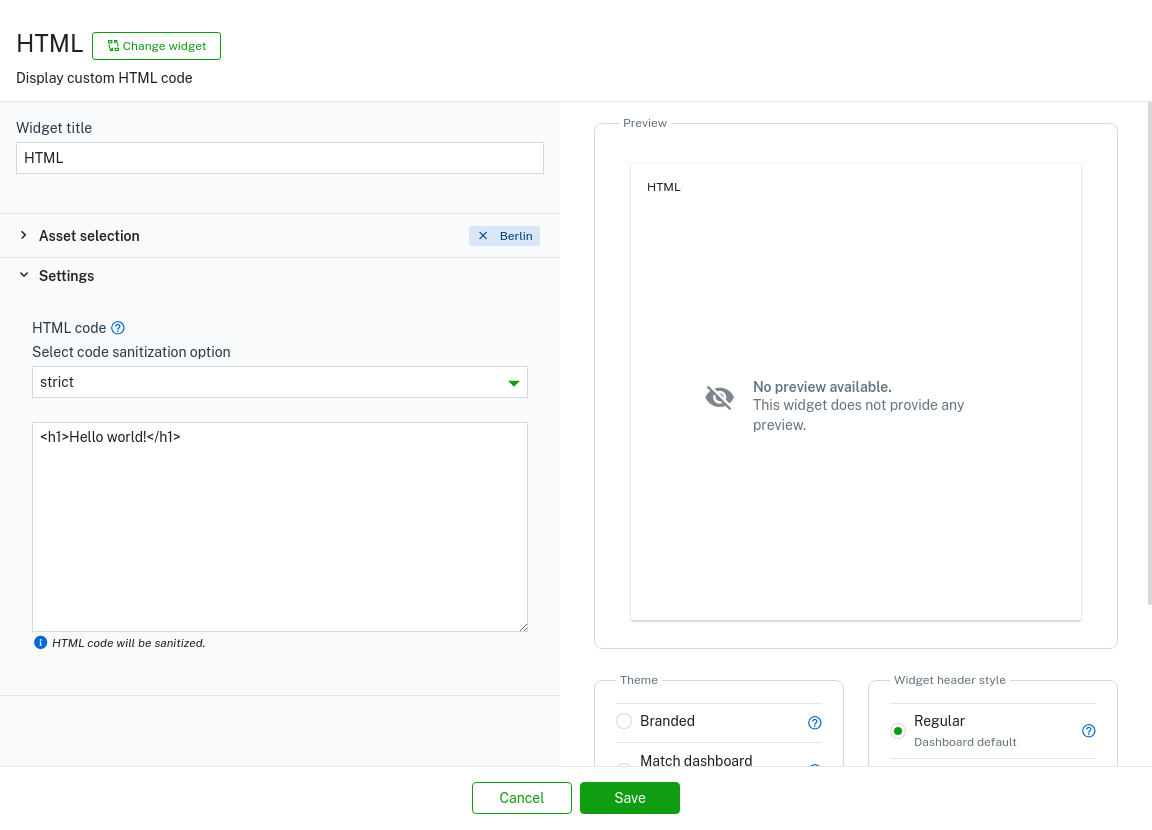
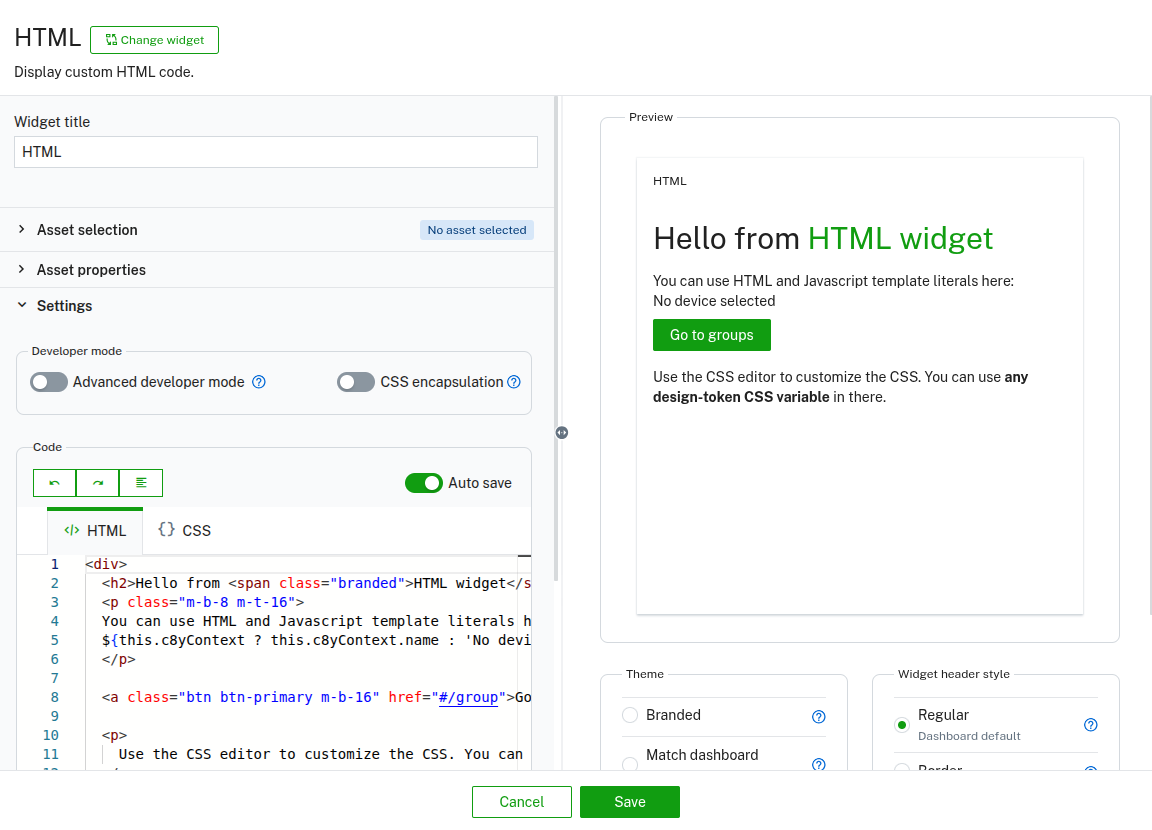
New HTML widget documentation update

diff --git a/content/cockpit/widgets-collection.md b/content/cockpit/widgets-collection.md
@@ -200,53 +200,43 @@ You must enable at least one data point in each section to create the "Info gaug
 
 ### HTML {#html}
 
-The "HTML" widget shows user-defined content. The content can be formatted using HTML.
+The "HTML" widget displays user-defined content that can be formatted using HTML and dynamically populated with data from the current device. Additionally, you can switch the widget into advanced mode, which allows you to build complex web components with JavaScript code.
 
 **Parameters to configure**
 
-* Target assets or devices: Select the objects for which optional HTML expressions are evaluated.
+* **Target assets or devices**: Select the objects for which optional HTML expressions are evaluated.
+* **Asset properties**: Based on the target asset, in the "Asset properties" tab you can copy properties which you can paste into the code shown under settings.
 
-* HTML code
+The widget offers two distinct modes:
 
-	The following variables can be used inside the HTML content:
+1. **Normal mode**: You can apply HTML and CSS while adding properties as template literals. You can use simple expressions such as:
+   `${this.c8yContext ? this.c8yContext.name : 'No device selected'}`. The `${this.c8yContext}` variable always refers to the selected target asset.
 
-	* {{devicesCount}}: Total number of devices.
+2. **Advanced mode**: When enabled, you can build complex web components using the Lit framework. You can import supported ECMAScript modules. By default, we provide leaflet, echarts, fetch, and lit. Whatever is rendered in the web component will be displayed to the end user. Additional requests can be performed by importing the fetch library. The following shows the available imports:
 
-	* {{usersCount}}: Total number of users.
+   ```javascript
+   import { LitElement, html, css } from 'lit';
+   import { styleImports } from 'styles';
+   import { L } from 'leaflet';
+   import * as echarts from 'echarts';
+   import { fetch } from 'fetch'; // Use this instead of default fetch to avoid potential issues
+   ```
 
-	* {{deviceGroupsCount}}: Total number of groups.
+**Styling and security considerations**
 
-	* {{device.name}}: The name of the device.
+When using styles, global styles can be applied if encapsulation is not enabled. Styles should always use CSS variables and tokens to ensure compatibility with dark mode and custom brandings. 
 
-	* {{device.*property*}}: More general form of the above. You can address any property of the device.
+By default, the normal HTML widget is sanitized for security, while in advanced mode the developer is responsible for proper sanitization. You can modify these settings in the application configuration.
 
-	* {{device.c8y_Hardware.model}}: The model of the device.
-
-	* {{device.*fragment*.*property*}}: More general form of the above. You can address any property of any fragment of the device.
-
-	* {{devices[*deviceId*].name}}: The name of the device at the specified index.
-
-	* {{devices[*deviceId*].*property*}}: More general form of the above. You can address any property of the device at the specified index.
-
-"Device" refers to the target device, as selected in the widget configuration parameter.<br>
-"fragment.property" refers to the properties of the respective device. To see the available property names, you can use the "Asset property" or "Asset table" widget and click **+Add property** in the widget configuration. This will show a table of supported properties. You can copy and paste the values from the column **Property**. Generated properties of these widgets are not available in the HTML widgets.
-
-The following code sanitization options can be selected:
- - strict - Does not allow any JS or angularjs directives.
- - lax (default) - Allows partly JS (events) and all angularjs directives.
- - none - Allows everything.
-
-{{< c8y-admon-info >}}
-The sanitization option "lax" includes a defined list of directives that are excluded from sanitization. For more examples on how to customize the sanitization options, see the help text toggle in the **HTML code** section.
-{{< /c8y-admon-info >}}
+A simple example looks like this:
 
 ![HTML widget](/images/users-guide/cockpit/cockpit-widget-html.png)
 
-If you want to use a link in the **HTML code** field, for example a link to a dashboard, you must use the following format:
+**Legacy widget compatibility**
 
-```html
-  <a style="cursor:pointer;" onclick="location.hash = '#/group/<<group-id>>/dashboard/<<dashboard-id>>'">link to another dashboard</a><br />
-```
+{{< c8y-admon-important >}}
+Existing widgets based on AngularJS will automatically fall back to legacy mode, which maintains backward compatibility and allows these widgets to continue functioning. This fallback displays JavaScript code that enables legacy widget execution. However, it is strongly recommended to migrate these widgets to the new Lit-based framework as soon as possible, since AngularJS support is deprecated and will be removed in future releases.
+{{< /c8y-admon-important >}}
 
 ### KPI {#kpi}
 
